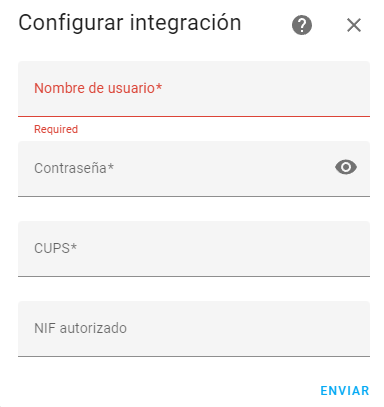
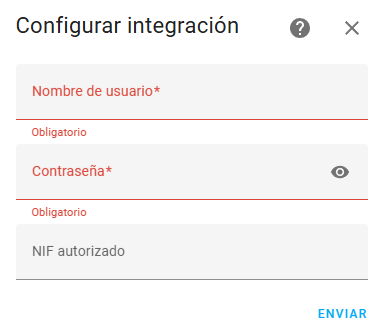
Actualizar docs

diff --git a/README.md b/README.md
@@ -53,13 +53,11 @@ Una vez satisfecho lo anterior, los pasos a seguir para la instalación son:
 
 ![Selección de edata](assets/install.png)
 
-4. Configurar sus credenciales de Datadis, indicando el NIF autorizado únicamente si no es el titular del suministro indicado. **Copie y pegue el CUPS** directamente desde la web de Datadis, en mayúscula. Algunas distribuidoras adhieren algunos caracteres adicionales.
+4. Configurar sus credenciales de Datadis, indicando el NIF autorizado _únicamente si no es el titular del suministro indicado_. A continuación se listará los suministros encontrados para las credenciales introducidas.
 
 ![Paso de configuración](assets/install-step1.png)
 
-> **IMPORTANTE:** El último campo (NIF autorizado) hay que dejarlo vacío si eres el titular del CUPS. Está pensado para poder ceder el acceso a tus datos a una tercera persona.
-
-5. Esperar unos minutos. Le aparecerá un nuevo sensor dispositivo, que consta de un sensor principal llamado `sensor.edata_xxxx` donde `xxxx` dependerá de los últimos caracteres de su CUPS, y de otros sensores con los datos.
+5. Esperar unos minutos. Le aparecerá un nuevo dispositivo, que consta de un sensor principal llamado `sensor.edata_xxxx` donde `xxxx` dependerá de los últimos caracteres de su CUPS, y de otros sensores con los datos.
 
 > **NOTA:** La instalación puede tardar bastante en su primera ejecución, ya que la integración "rescata" el último año de consumos desde Datadis, y ésta a veces puede tomarse su tiempo. Periódicamente, la integración solicitará únicamente lo que le falta, en intervalos de 24h.
 
